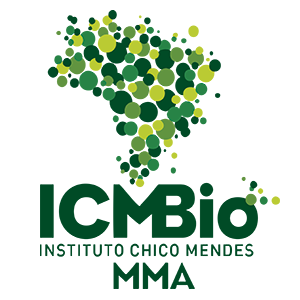
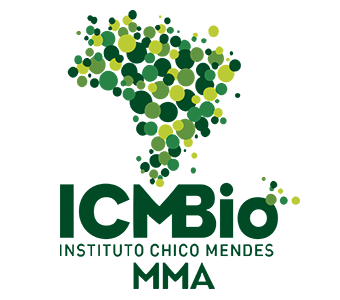
ajustes

Changed region(s): [[0.12, 0.03, 0.93, 0.96], [0.75, 0.57, 0.78, 0.6], [0.51, 0.6, 0.54, 0.63]]

diff --git a/src/css/main.css b/src/css/main.css
@@ -1936,14 +1936,15 @@ body {
       margin-right: 0; }
   .single-projeto .single-projeto-marcas.is-uc img {
     height: auto;
-    max-width: 80%;
+    max-width: 70%;
     max-height: none; }
 
 .single-projeto .single-projeto-content {
   height: 400px;
   margin: 10px 0 60px; }
   .single-projeto .single-projeto-content.is-uc {
-    height: 530px; }
+    height: auto;
+    max-height: 530px; }
 
 .single-projeto .content-main {
   line-height: 1.5em;

diff --git a/src/_sass/_base.scss b/src/_sass/_base.scss
@@ -236,7 +236,7 @@ body {
     &.is-uc {
       img {
         height: auto;
-        max-width: 80%;
+        max-width: 70%;
         max-height: none;
       }
     }
@@ -246,7 +246,8 @@ body {
     height: 400px;
     margin: 10px 0 60px;
     &.is-uc {
-      height: 530px;
+      height: auto;
+      max-height: 530px;
     }
   }
   
